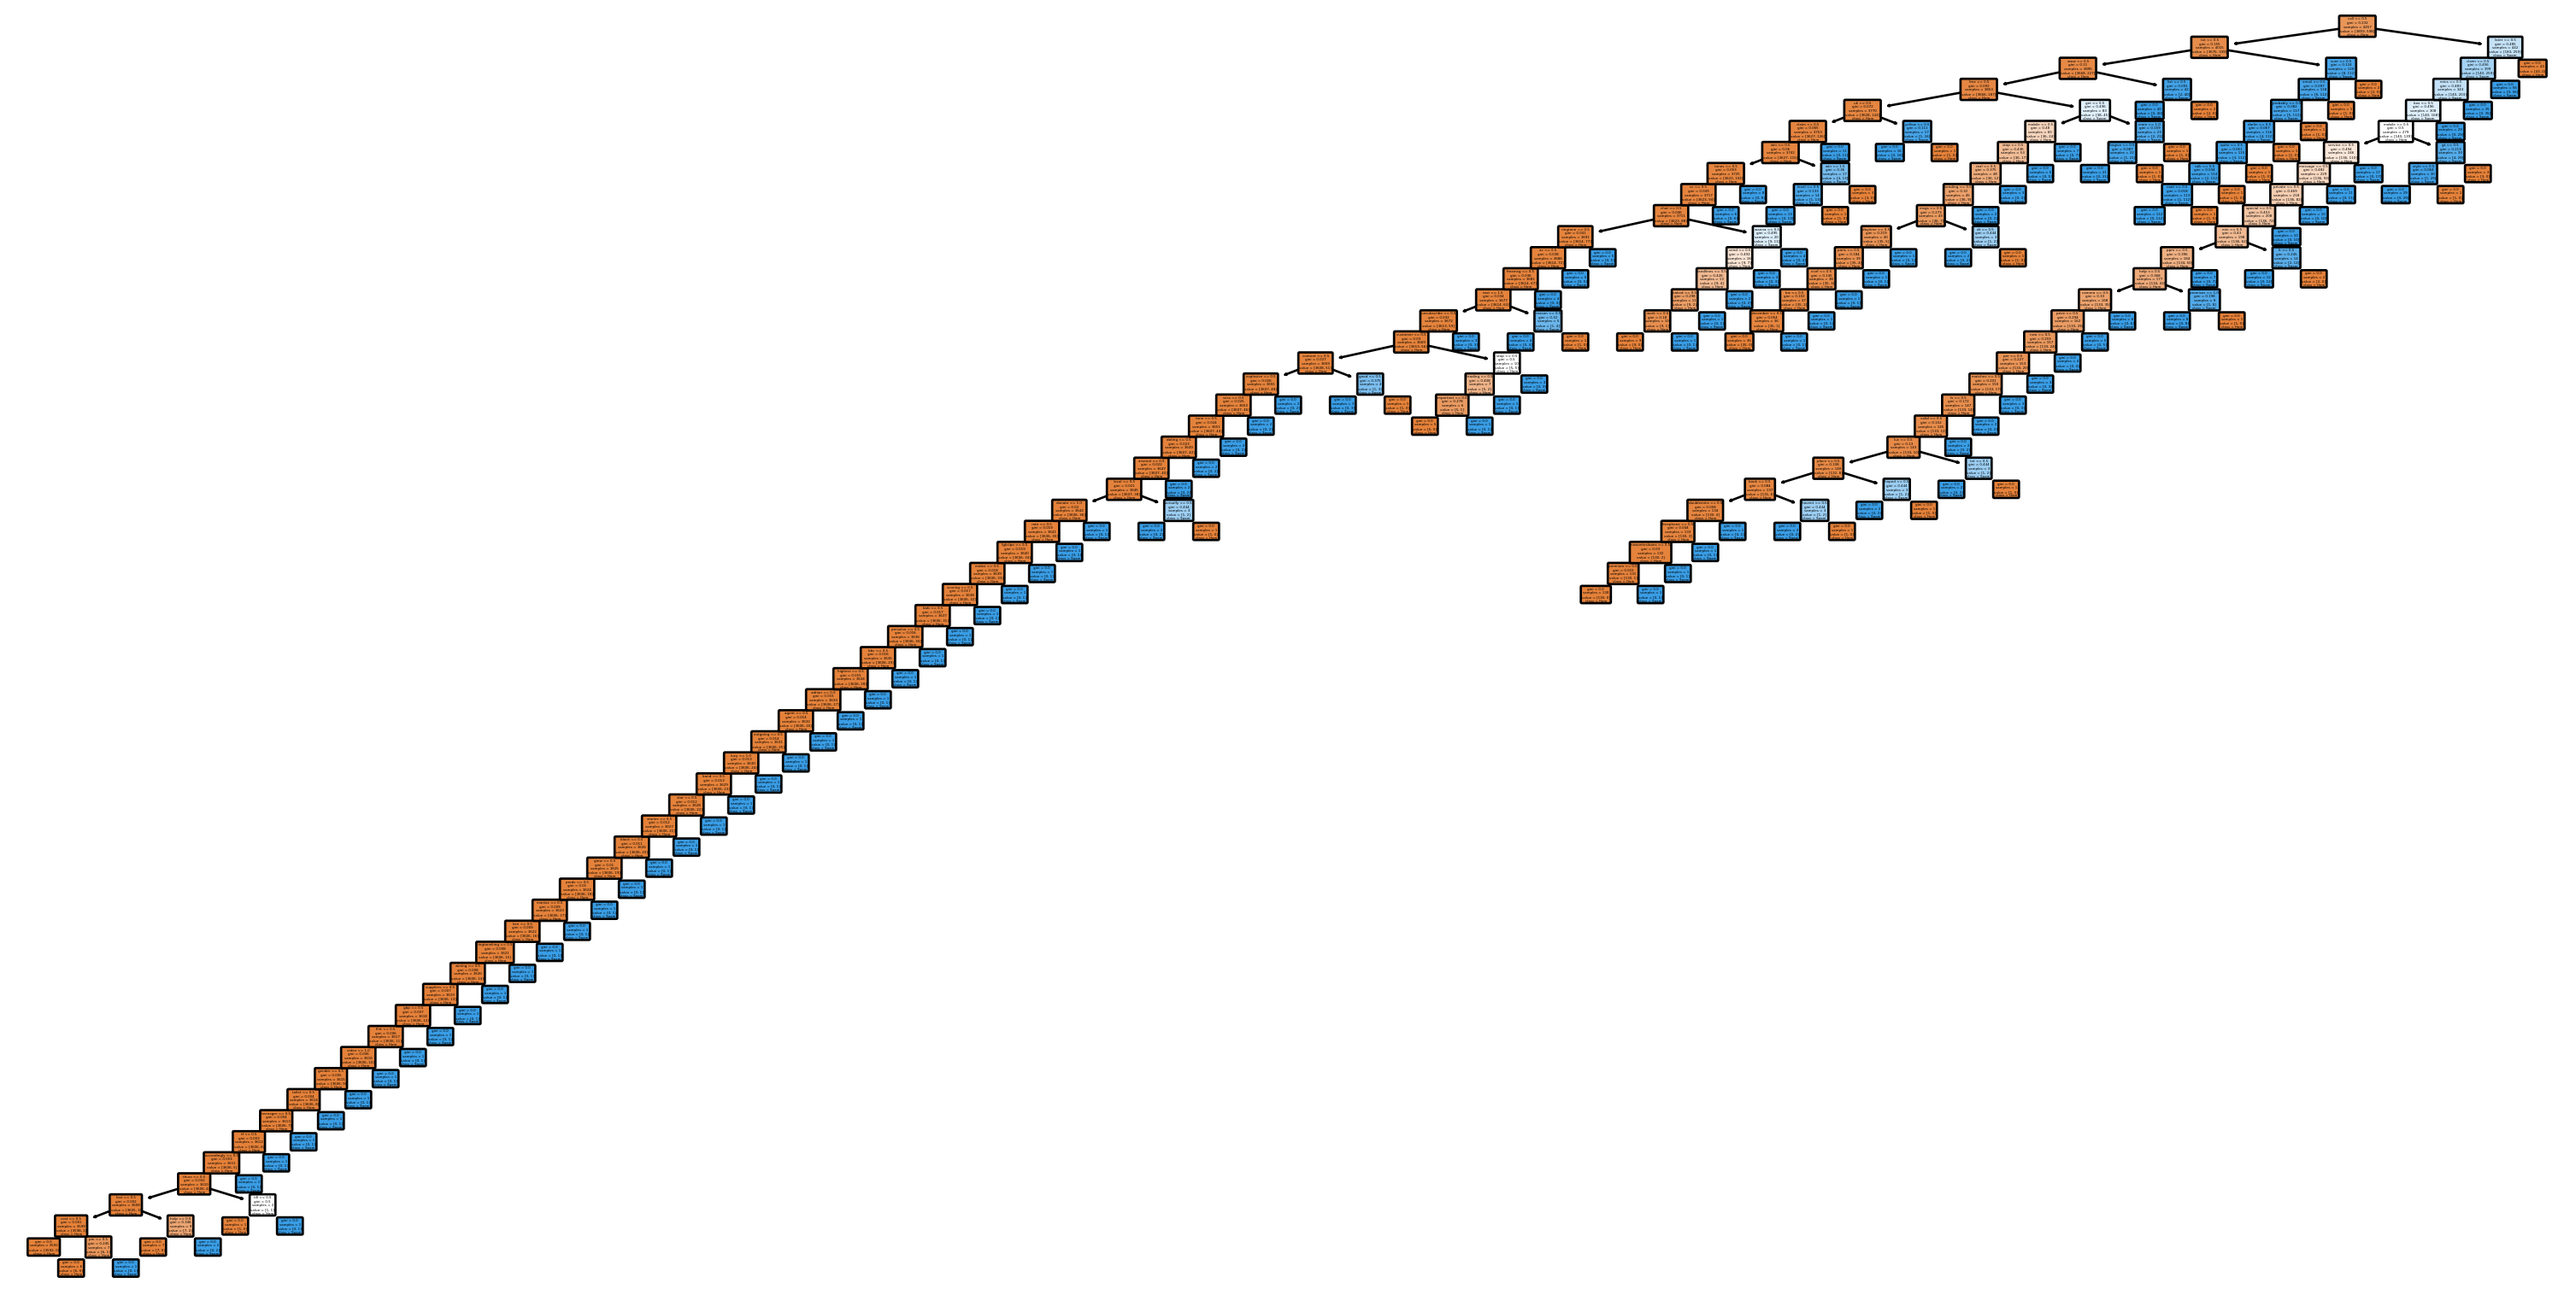
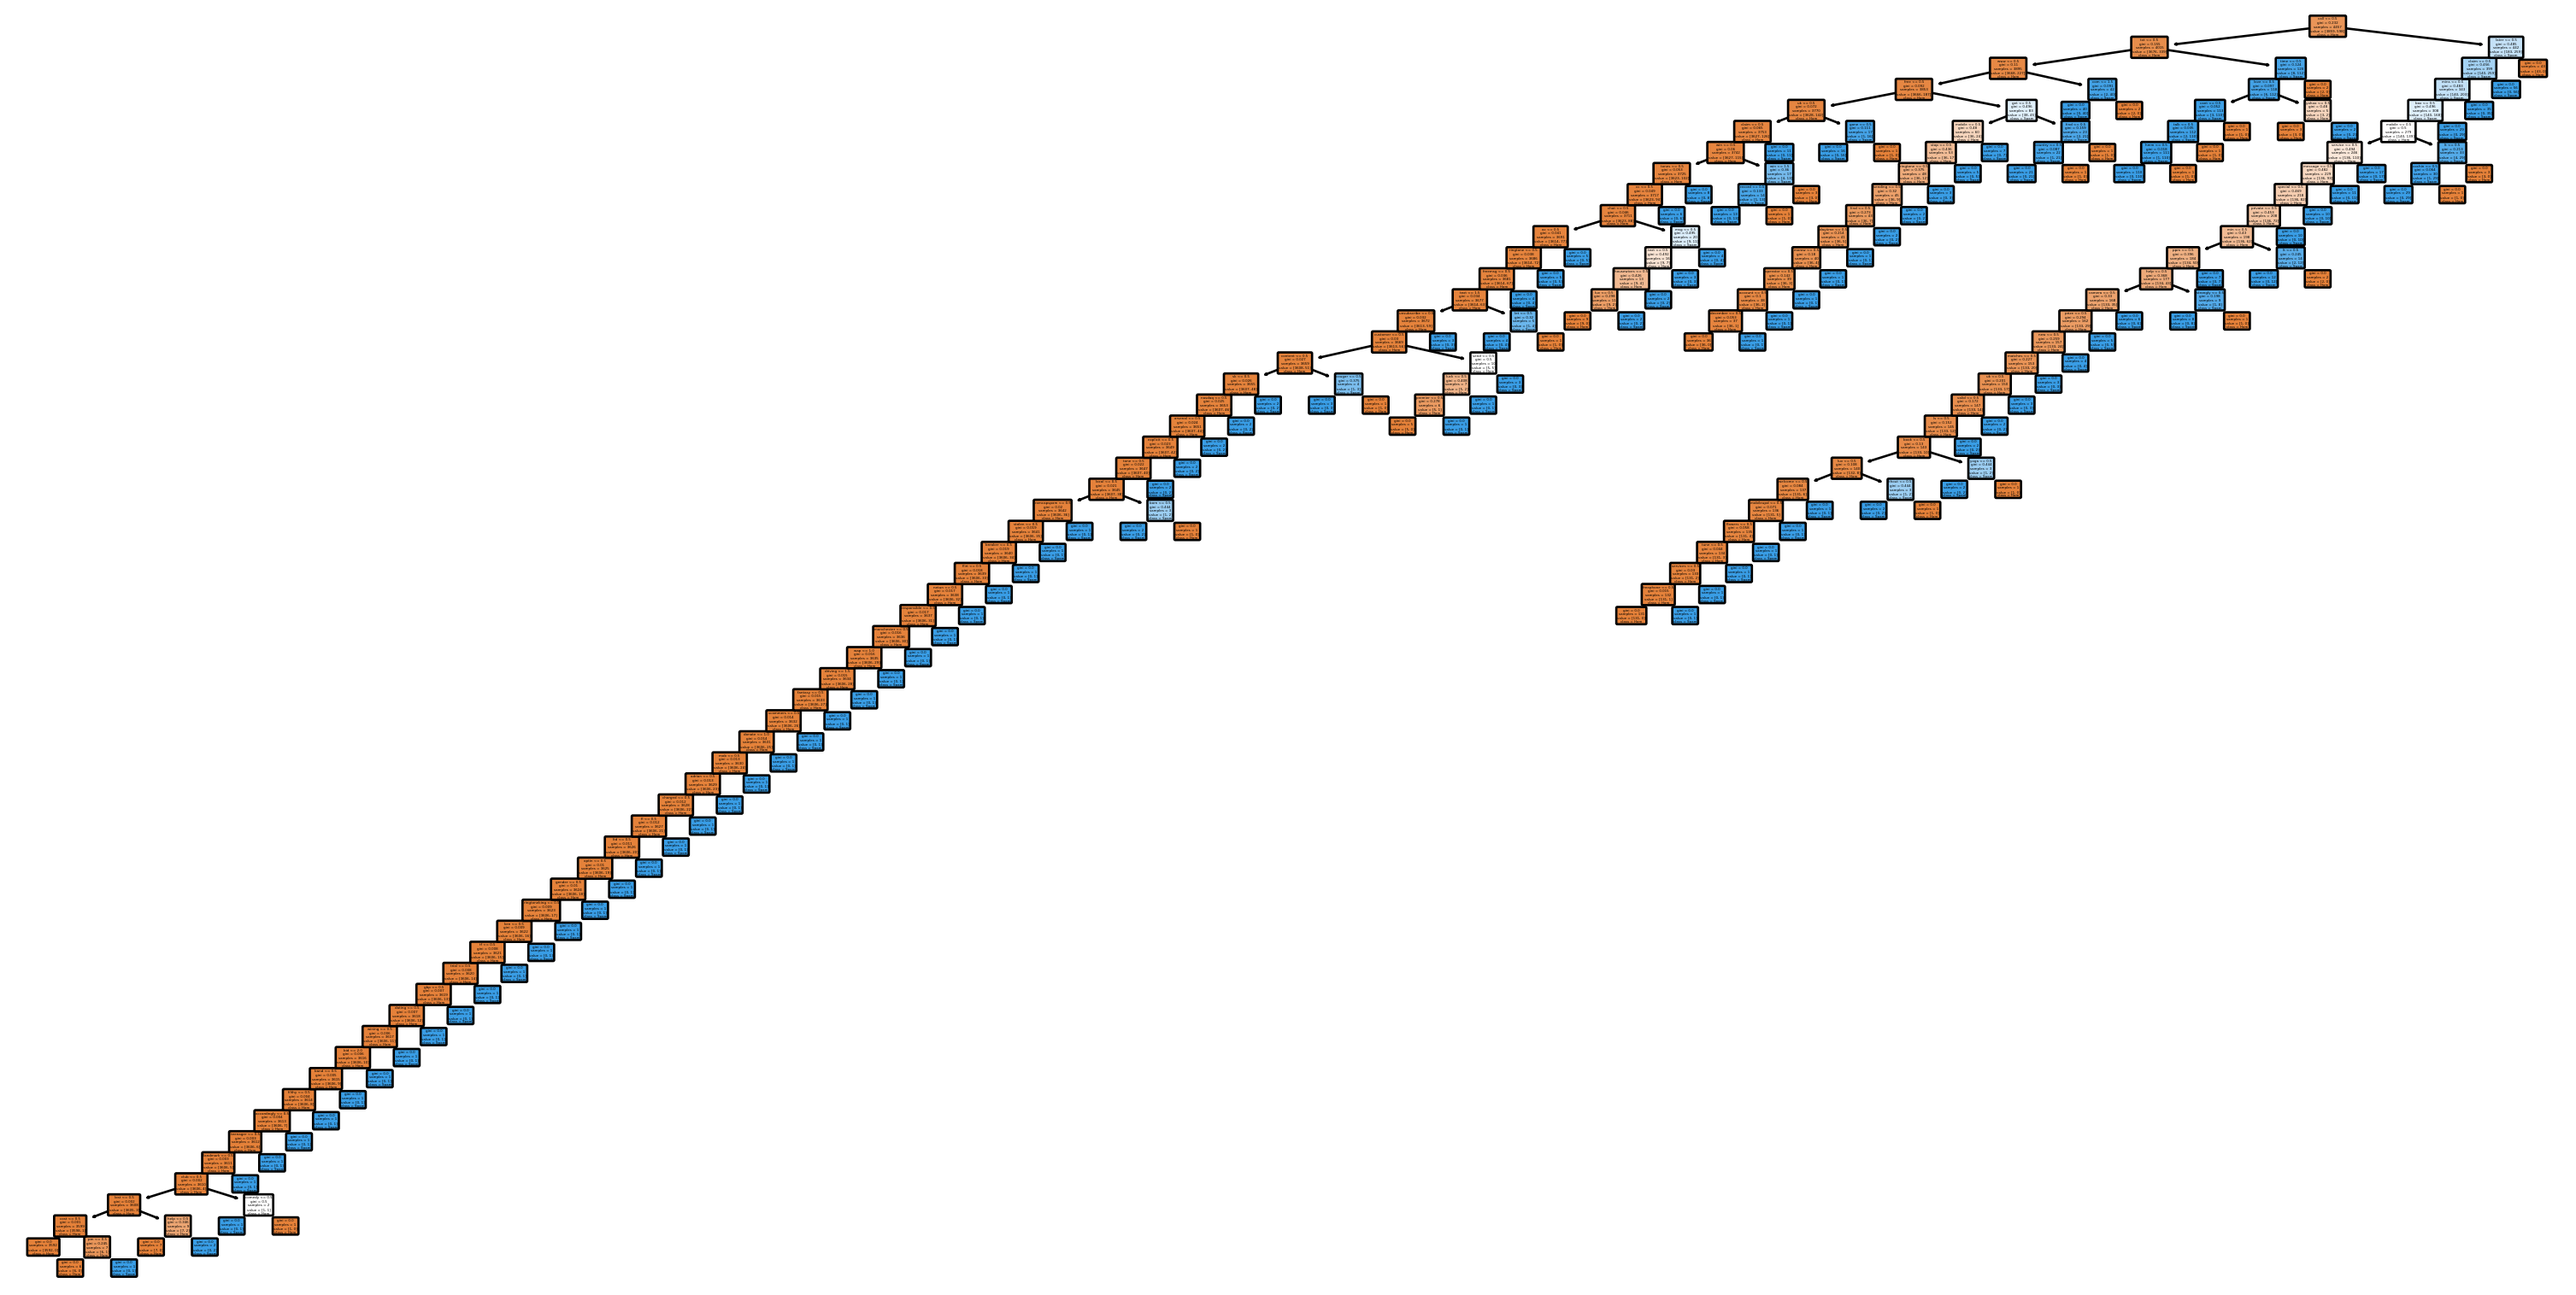
still trying

Changed region(s): [[0.0, 0.0, 0.998, 0.9921]]

diff --git a/docs/posts/4-classification/index.html b/docs/posts/4-classification/index.html
@@ -204,7 +204,7 @@ pre > code.sourceCode > span > a:first-child::before { text-decoration: underlin
 <span id="cb1-4"><a href="#cb1-4" aria-hidden="true" tabindex="-1"></a><span class="co"># Load the SMS Spam Collection dataset</span></span>
 <span id="cb1-5"><a href="#cb1-5" aria-hidden="true" tabindex="-1"></a>df <span class="op">=</span> pd.read_csv(<span class="st">"C:/Users/sarah/git/CS5805-Blog/posts/4-classification/SMSSpamCollection"</span>, sep<span class="op">=</span><span class="st">"</span><span class="ch">\t</span><span class="st">"</span>, names<span class="op">=</span>[<span class="st">"label"</span>, <span class="st">"message"</span>])</span>
 <span id="cb1-6"><a href="#cb1-6" aria-hidden="true" tabindex="-1"></a>df.head()</span></code><button title="Copy to Clipboard" class="code-copy-button"><i class="bi"></i></button></pre></div>
-<div class="cell-output cell-output-display" data-execution_count="3">
+<div class="cell-output cell-output-display" data-execution_count="13">
 <div>
 
 
@@ -280,7 +280,7 @@ pre > code.sourceCode > span > a:first-child::before { text-decoration: underlin
 [nltk_data]     C:\Users\sarah\AppData\Roaming\nltk_data...
 [nltk_data]   Package stopwords is already up-to-date!</code></pre>
 </div>
-<div class="cell-output cell-output-display" data-execution_count="4">
+<div class="cell-output cell-output-display" data-execution_count="14">
 <pre><code>0    go jurong point crazy available bugis n great ...
 1                              ok lar joking wif u oni
 2    free entry wkly comp win fa cup final tkts st ...
@@ -324,10 +324,10 @@ Name: message, dtype: object</code></pre>
 <span id="cb5-27"><a href="#cb5-27" aria-hidden="true" tabindex="-1"></a>conf_mat <span class="op">=</span> confusion_matrix(y_test, y_pred)</span>
 <span id="cb5-28"><a href="#cb5-28" aria-hidden="true" tabindex="-1"></a><span class="bu">print</span>(<span class="ss">f'Confusion Matrix: </span><span class="ch">\n</span><span class="sc">{</span>conf_mat<span class="sc">}</span><span class="ss">'</span>)</span></code><button title="Copy to Clipboard" class="code-copy-button"><i class="bi"></i></button></pre></div>
 <div class="cell-output cell-output-stdout">
-<pre><code>Accuracy: 0.9704035874439462
+<pre><code>Accuracy: 0.9748878923766816
 Confusion Matrix: 
-[[953  13]
- [ 20 129]]</code></pre>
+[[957   9]
+ [ 19 130]]</code></pre>
 </div>
 </div>
 <p>We see that the accuracy of our decision tree on the Spam Collection dataset was 97.58%. Our confusion matrix shows that 956 messages were correctly labeled ham (legitimate) and 132 were correctly labeled spam. We also see that 10 messages were legitimate but labeled spam, and 17 were spam but labeled legitimate. This dataset is 86.6% legitimate messages and 13.4% spam messages, so it is expected that the model will over classify messages as legitimate.</p>
@@ -337,11 +337,11 @@ Confusion Matrix:
 <div class="cell-output cell-output-stdout">
 <pre><code>              precision    recall  f1-score   support
 
-         ham       0.98      0.99      0.98       966
-        spam       0.91      0.87      0.89       149
+         ham       0.98      0.99      0.99       966
+        spam       0.94      0.87      0.90       149
 
     accuracy                           0.97      1115
-   macro avg       0.94      0.93      0.93      1115
+   macro avg       0.96      0.93      0.94      1115
 weighted avg       0.97      0.97      0.97      1115
 </code></pre>
 </div>
@@ -364,7 +364,7 @@ weighted avg       0.97      0.97      0.97      1115
 <div class="cell" data-execution_count="6">
 <div class="sourceCode cell-code" id="cb10"><pre class="sourceCode python code-with-copy"><code class="sourceCode python"><span id="cb10-1"><a href="#cb10-1" aria-hidden="true" tabindex="-1"></a><span class="bu">print</span>(clf.tree_.node_count)</span></code><button title="Copy to Clipboard" class="code-copy-button"><i class="bi"></i></button></pre></div>
 <div class="cell-output cell-output-stdout">
-<pre><code>261</code></pre>
+<pre><code>255</code></pre>
 </div>
 </div>
 <p>Using the built-in function, we see that there are 261 nodes in this decision tree. The number of branches is always # nodes - 1, so we also know that there are 260 branches in this tree.</p>

diff --git a/docs/index.html b/docs/index.html
@@ -229,7 +229,7 @@ Sarah Ramboyong
 </a>
 </div>
 </div>
-<div class="quarto-post image-right" data-index="2" data-listing-date-sort="1701838800000" data-listing-file-modified-sort="1701901293892" data-listing-date-modified-sort="NaN" data-listing-reading-time-sort="1">
+<div class="quarto-post image-right" data-index="2" data-listing-date-sort="1701838800000" data-listing-file-modified-sort="1701933833919" data-listing-date-modified-sort="NaN" data-listing-reading-time-sort="1">
 <div class="thumbnail">
 <p><a href="./posts/3-linear/index.html"> <img src="./posts/3-linear/linear_image.png" class="thumbnail-image"> </a></p>
 </div>
